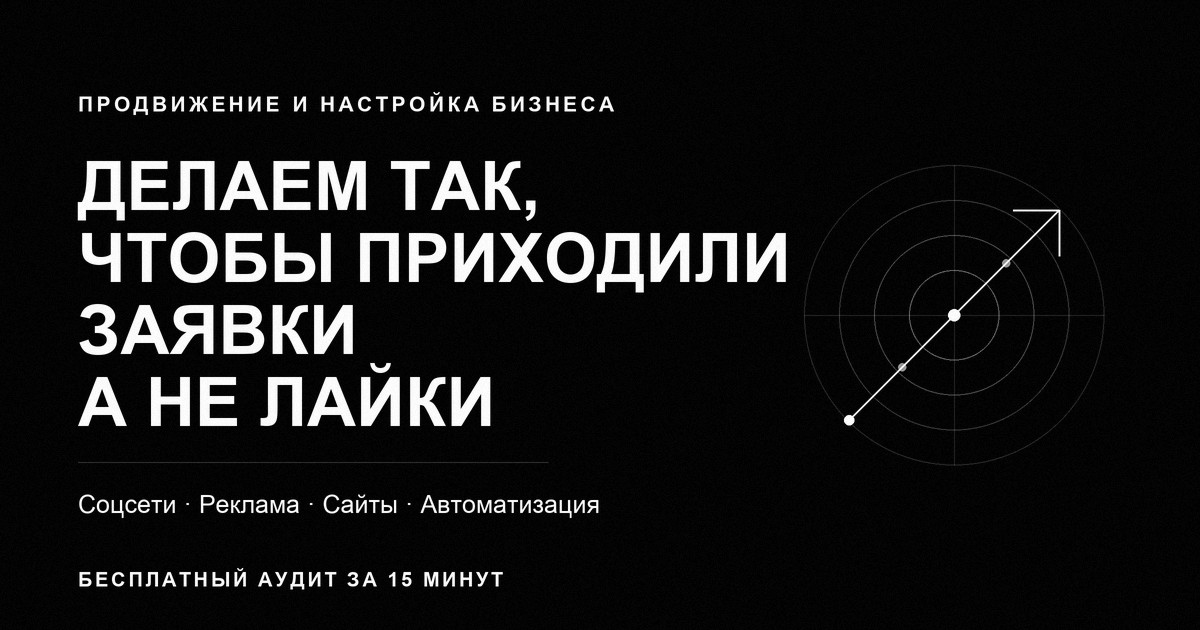
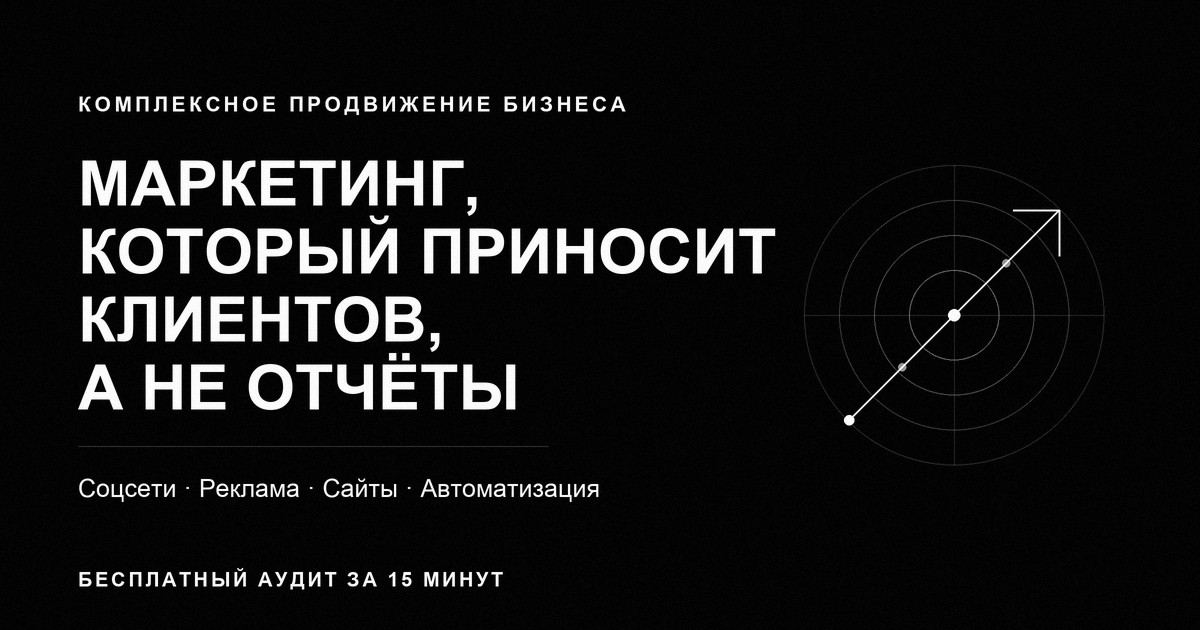
Новый заголовок первого экрана, единый тон
- «Маркетинг, который приносит клиентов, а не отчёты» вместо SMM-суженного оффера
- все строки заголовка одним весом и цветом, убран line--thin
- кикер: комплексное продвижение и настройка бизнеса
- подзаголовок про «вместо пяти подрядчиков — одна команда»
- OG-картинка и мета-теги перерисованы под новый текст

Changed region(s): [[0.0617, 0.2413, 0.6783, 0.6937], [0.0617, 0.754, 0.4933, 0.8143], [0.0617, 0.1508, 0.5242, 0.181]]

diff --git a/index.html b/index.html
@@ -12,15 +12,15 @@
   <!-- превью ссылки в Telegram, VK, WhatsApp -->
   <meta property="og:type" content="website">
   <meta property="og:locale" content="ru_RU">
-  <meta property="og:title" content="Делаем так, чтобы приходили заявки, а не лайки">
-  <meta property="og:description" content="Соцсети, реклама, сайты, автоматизация и контент — в одной системе. Бесплатный аудит за 15 минут.">
+  <meta property="og:title" content="Маркетинг, который приносит клиентов, а не отчёты">
+  <meta property="og:description" content="Соцсети, реклама, сайты, автоматизация и контент в одних руках. Бесплатный аудит за 15 минут.">
   <meta property="og:url" content="https://ai-automation-systems.github.io/marketing-site/">
   <meta property="og:image" content="https://ai-automation-systems.github.io/marketing-site/img/og.jpg">
   <meta property="og:image:width" content="1200">
   <meta property="og:image:height" content="630">
   <meta name="twitter:card" content="summary_large_image">
-  <meta name="twitter:title" content="Делаем так, чтобы приходили заявки, а не лайки">
-  <meta name="twitter:description" content="Соцсети, реклама, сайты, автоматизация и контент — в одной системе. Бесплатный аудит за 15 минут.">
+  <meta name="twitter:title" content="Маркетинг, который приносит клиентов, а не отчёты">
+  <meta name="twitter:description" content="Соцсети, реклама, сайты, автоматизация и контент в одних руках. Бесплатный аудит за 15 минут.">
   <meta name="twitter:image" content="https://ai-automation-systems.github.io/marketing-site/img/og.jpg">
   <link rel="preconnect" href="https://fonts.googleapis.com">
   <link rel="preconnect" href="https://fonts.gstatic.com" crossorigin>
@@ -53,18 +53,18 @@
     <!-- ───────────── ХИРО ───────────── -->
     <section class="hero">
       <div class="shell">
-        <p class="hero__kicker">Продвижение и настройка бизнеса</p>
+        <p class="hero__kicker">Комплексное продвижение и настройка бизнеса</p>
         <div class="hero__main">
           <h1 class="hero__title">
-            <span class="line">Делаем так,</span>
-            <span class="line">чтобы приходили</span>
-            <span class="line">заявки</span>
-            <span class="line line--thin">а не лайки</span>
+            <span class="line">Маркетинг,</span>
+            <span class="line">который приносит</span>
+            <span class="line">клиентов,</span>
+            <span class="line">а не отчёты</span>
           </h1>
           <img class="hero__mark" src="img/hero-mark.svg" alt="" width="480" height="480" loading="eager">
         </div>
         <div class="hero__bottom">
-          <p class="hero__sub">Соцсети, реклама, сайты, автоматизация и контент — собираем в одну систему, которая приносит клиентов.</p>
+          <p class="hero__sub">Соцсети, реклама, сайты, автоматизация и контент — собираем в одну систему. Вместо пяти подрядчиков — одна команда.</p>
           <div class="hero__cta">
             <a href="#" class="btn" data-tg>Получить бесплатный аудит</a>
             <p class="hero__note">15 минут в Telegram — покажем, где вы теряете клиентов</p>

diff --git a/css/style.css b/css/style.css
@@ -128,11 +128,6 @@ i { font-style: normal; }
   line-height: 1;
 }
 .hero__title .line { display: block; }
-.hero__title .line--thin {
-  font-weight: 400;
-  letter-spacing: -0.02em;
-  opacity: 0.5;
-}
 .hero__mark {
   width: 100%;
   height: auto;
